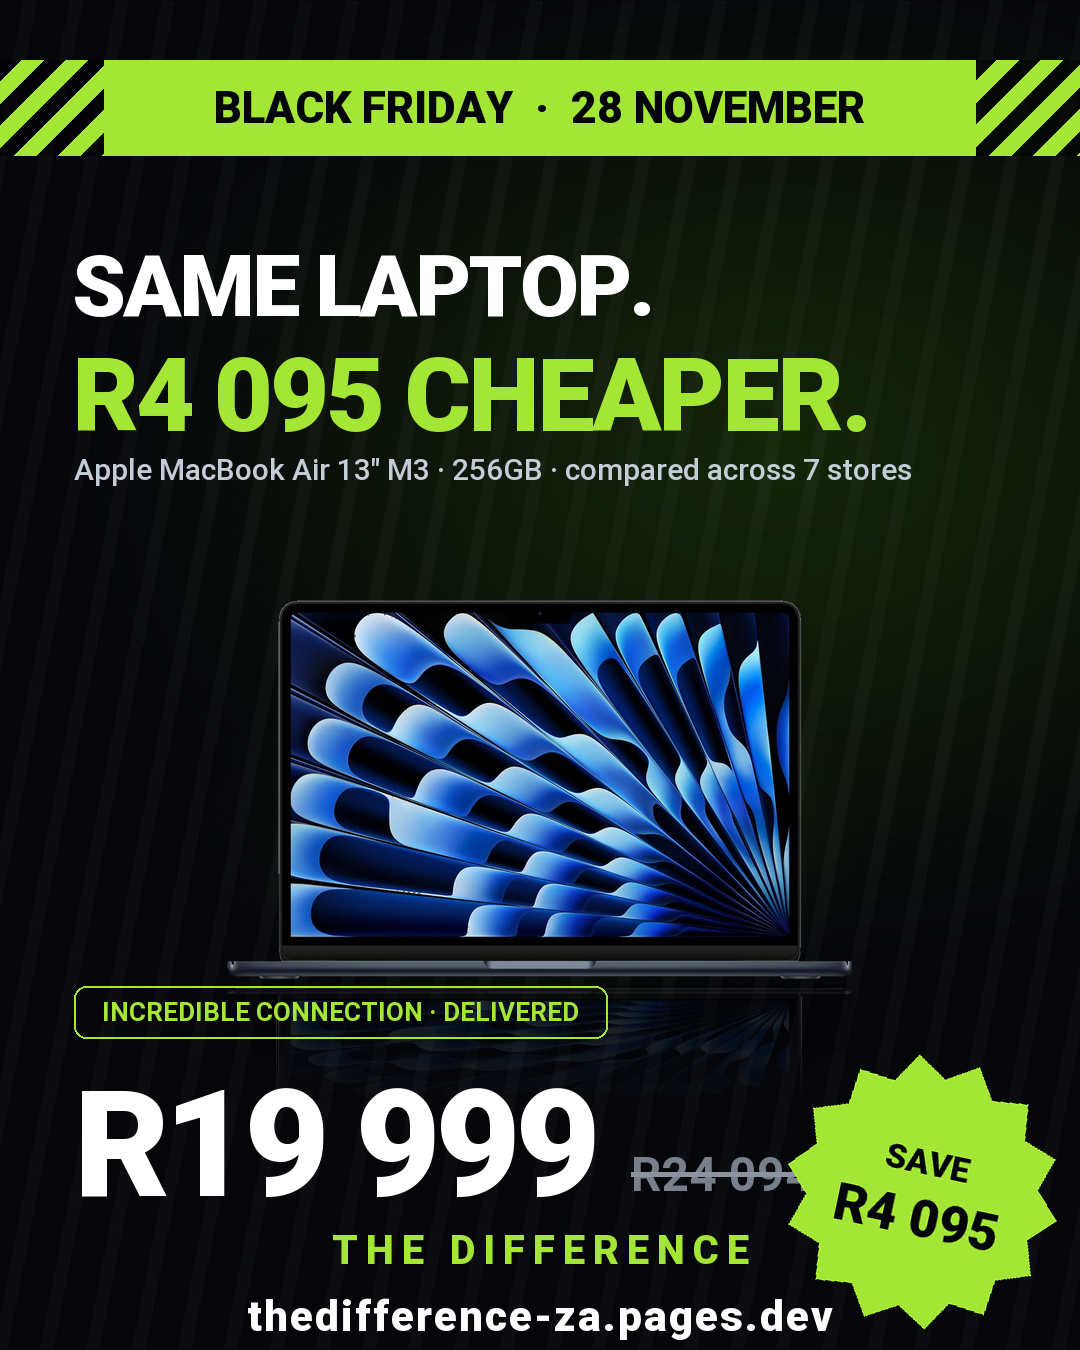
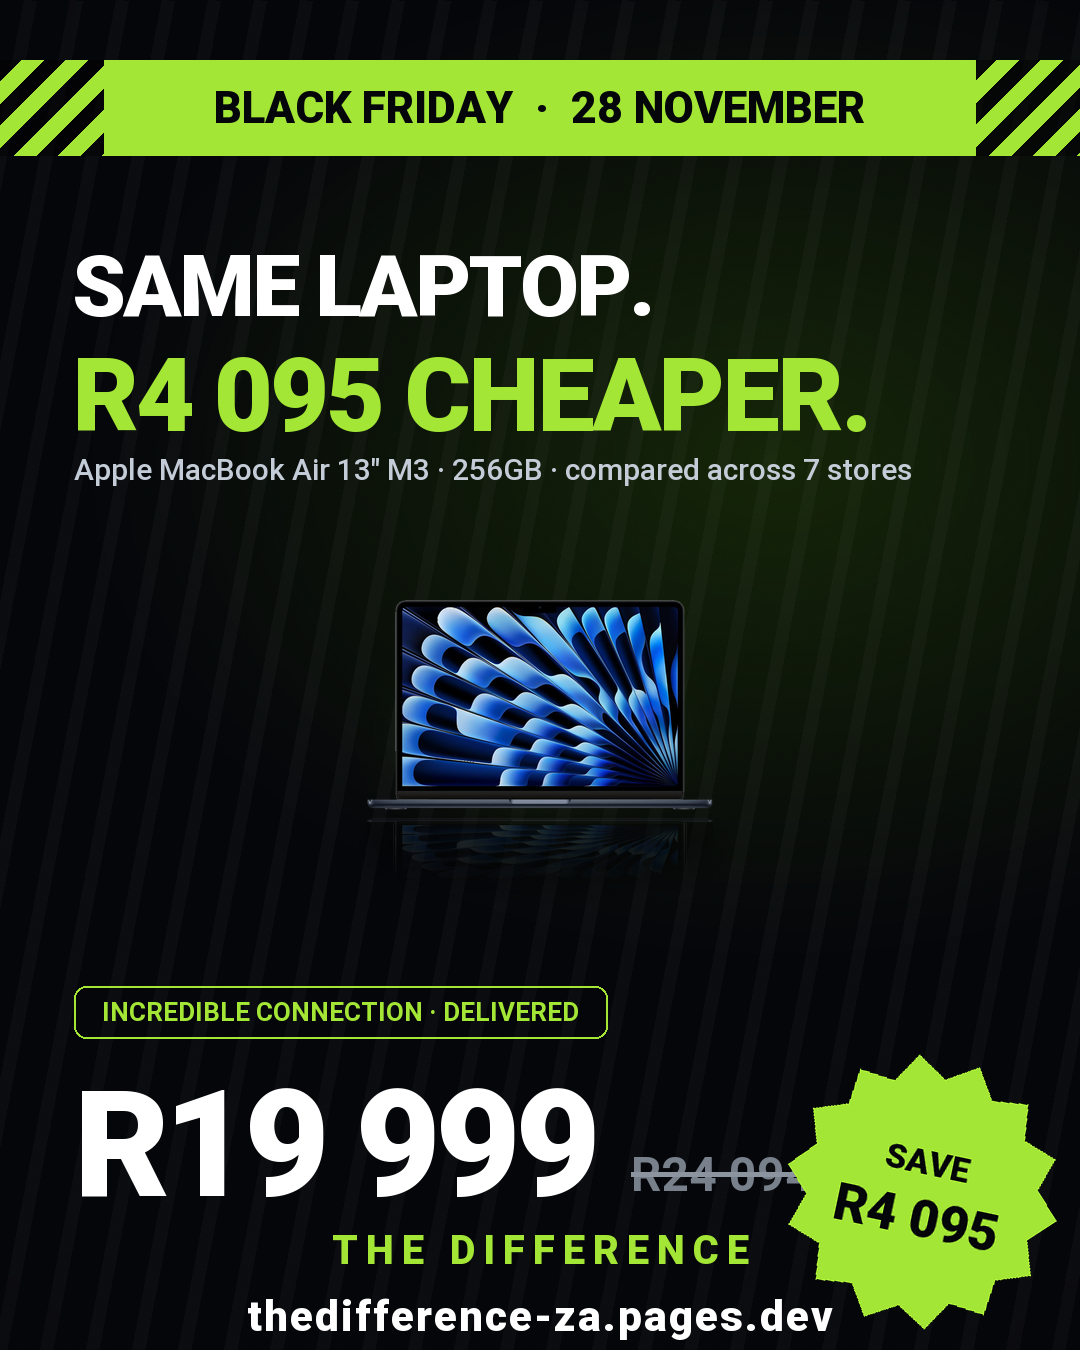
promo: extend poster pack to 10 posters (soundbar, LG OLED, EcoFlow Delta 2, JBL, Dyson, Bluetti) with product-stage height clamp

Changed region(s): [[0.2139, 0.4356, 0.7944, 0.7778]]

diff --git a/scripts/make_bf_posters.py b/scripts/make_bf_posters.py
@@ -143,6 +143,9 @@ def product_hero(path, max_w, max_h):
     """Packshot with acid glow, floor shadow and reflection."""
     im = Image.open(path).convert("RGBA")
     im.thumbnail((max_w, max_h), Image.LANCZOS)
+    MAX_STAGE_H = 470
+    if im.size[1] + 260 > MAX_STAGE_H:
+        im.thumbnail((max_w, MAX_STAGE_H - 260), Image.LANCZOS)
     w, h = im.size
 
     stage = Image.new("RGBA", (w + 320, h + 260), (0, 0, 0, 0))
@@ -284,6 +287,60 @@ if __name__ == "__main__":
         "R48 999", "R52 999", "SAVE\nR4 000",
         ("AMAZON SA", "DELIVERED"),
         "poster-bf-ecoflow.png",
+    )
+    deal_poster(
+        "CINEMA SOUND.",
+        "R2 650 CHEAPER.",
+        "Samsung HW-Q990D · 11.1.4ch Atmos soundbar · compared across 7 stores",
+        "prod-samsung-hw-q990d.png",
+        "R19 499", "R22 149", "SAVE\nR2 650",
+        ("AMAZON SA", "DELIVERED"),
+        "poster-bf-soundbar.png",
+    )
+    deal_poster(
+        "SAME OLED TV.",
+        "R2 350 CHEAPER.",
+        "LG 55\" 4K OLED evo C4 · compared across 7 stores",
+        "prod-lg-55-c4-oled.png",
+        "R23 649", "R25 999", "SAVE\nR2 350",
+        ("AMAZON SA", "DELIVERED"),
+        "poster-bf-lg-oled.png",
+    )
+    deal_poster(
+        "POWER, DONE RIGHT.",
+        "R2 150 CHEAPER.",
+        "EcoFlow Delta 2 · 1024Wh power station · compared across 7 stores",
+        "prod-ecoflow-delta-2.png",
+        "R14 499", "R16 499", "SAVE\nR2 150",
+        ("AMAZON SA", "DELIVERED"),
+        "poster-bf-ecoflow-delta2.png",
+    )
+    deal_poster(
+        "BIG SOUND.",
+        "R2 150 CHEAPER.",
+        "JBL Bar 800 · 5.1.2ch Atmos with detachable speakers · across 7 stores",
+        "prod-jbl-bar-800.png",
+        "R16 499", "R18 649", "SAVE\nR2 150",
+        ("AMAZON SA", "DELIVERED"),
+        "poster-bf-jbl.png",
+    )
+    deal_poster(
+        "CLEAN FOR LESS.",
+        "R2 000 CHEAPER.",
+        "Dyson V12 Detect Slim · cordless vacuum · compared across 7 stores",
+        "prod-dyson-v12-detect-slim.png",
+        "R12 499", "R14 499", "SAVE\nR2 000",
+        ("AMAZON SA", "DELIVERED"),
+        "poster-bf-dyson.png",
+    )
+    deal_poster(
+        "STAY POWERED.",
+        "R2 000 CHEAPER.",
+        "Bluetti AC200P · 2000Wh power station · compared across 7 stores",
+        "prod-bluetti-ac200p.png",
+        "R22 999", "R24 999", "SAVE\nR2 000",
+        ("AMAZON SA", "DELIVERED"),
+        "poster-bf-bluetti.png",
     )
     main_poster()
     print("Poster pack v2 written to", OUT)
